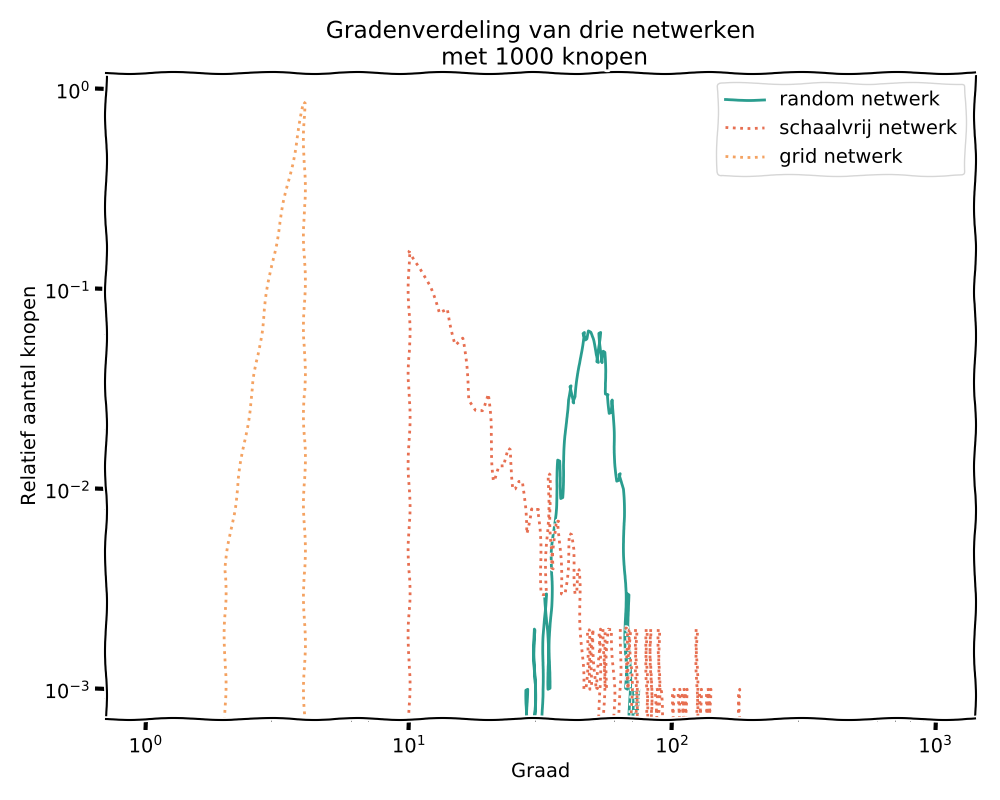
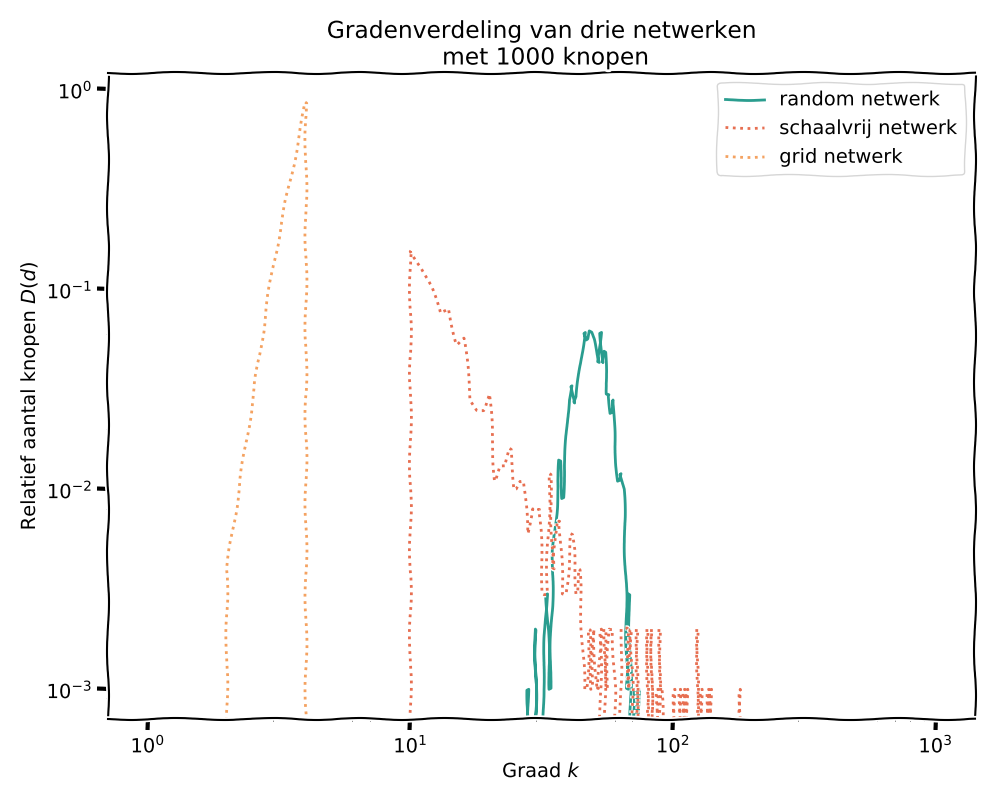
:pencil2: oefening graden

diff --git a/scripts/ziekteverspreiding.py b/scripts/ziekteverspreiding.py
@@ -54,6 +54,13 @@ def deax(ax):
     ax.set_xticks([])
     ax.set_yticks([])
 
+def printdegreetable(n):
+    """Print de tabel voor gradenverdeling"""
+    print("| $k$ | $D(k)$ |")
+    print("|:--|:--|")
+    for i in range(n):
+        print("| ${}$ | ... |".format(i+1))
+
 if __name__ == '__main__':
     import matplotlib.pyplot as plt
     plt.xkcd()
@@ -97,11 +104,23 @@ if __name__ == '__main__':
     ax.plot(bereken_gradenverdeling(netwerk_grid), color=oranje, ls=":",
                                             label="grid netwerk")
 
-    ax.set_xlabel("Graad")
-    ax.set_ylabel("Relatief aantal knopen")
+    ax.set_xlabel(r"Graad $k$")
+    ax.set_ylabel(r"Relatief aantal knopen $D(d)$")
     ax.set_title("Gradenverdeling van drie netwerken\n met 1000 knopen")
     ax.legend(loc=0)
     ax.loglog()
     fig.tight_layout()
 
     fig.savefig('figuren/gradenverdelingen.png')
+
+    # Plot voor gradenverdeling
+    # -------------------------
+
+    fig, ax = plt.subplots(figsize=(10, 8))
+
+    ax.plot(bereken_gradenverdeling(netwerk_voorbeeld), color='w')
+    ax.grid(color='g', linestyle=':', linewidth=0.25)
+    ax.set_xlabel(r"Graad $k$")
+    ax.set_ylabel(r"Relatief aantal knopen $D(d)$")
+
+    fig.savefig('figuren/gradenverdelingenleeg.png')

diff --git a/notas/ziekteverspeiding.md b/notas/ziekteverspeiding.md
@@ -133,7 +133,7 @@ Het sociaal netwerk dat we beschouwen wordt weergegeven in onderstaande figuur. 
 | **14** | ... | ... | ... | ... | ... | ... | ... | ... | ... | ... | ... | ... | ... | ... | ... |
 | **15** | ... | ... | ... | ... | ... | ... | ... | ... | ... | ... | ... | ... | ... | ... | ... |
 
-- [ ] maak netwerk + plot
+- [x] maak netwerk + plot
 - [x] verbindingmatrix
 
 ### Gradenverdeling
@@ -142,13 +142,33 @@ Het sociaal netwerk dat we beschouwen wordt weergegeven in onderstaande figuur. 
 
 Een graaf is een complexe wiskundige structuur. Een gegeven knoop in een graaf wordt gekarakteriseerd door zijn bogen en dus ook graad. Echter, belangrijke eigenschappen van de graaf zijn *emergent*, dit wil zeggen dat ze enkel te verklaren zijn door de graaf in zijn geheel en niet enkel de individuele onderdelen.
 
-Als we iets willen leren over een netwerk, welke informatie kunnen we bekijken? Het zou zeer interessant zijn om te weten hoe verbonden het netwerk is. Hoe kunnen we bepalen tot welke mate de knopen met elkaar verbonden zijn? We zouden naar de gemiddelde knoopgraad kunnen kijken, maar dit zou ons niet veel zeggen. In plaats daarvan kunnen we tellen voor elk nummer $x$ het aantal $y$ van knopen met graad $x$. Deze plot wordt de *gradenverdeling* genoemd en kan ons veel vertellen over de structuur van een netwerk. Wiskundig drukken we de gradenverdeling uit als
+Als we iets willen leren over een netwerk, welke informatie kunnen we bekijken? Het zou zeer interessant zijn om te weten hoe verbonden het netwerk is. Hoe kunnen we bepalen tot welke mate de knopen met elkaar verbonden zijn? We zouden naar de gemiddelde knoopgraad kunnen kijken, maar dit zou ons niet veel zeggen. In plaats daarvan kunnen we tellen voor elk nummer $x$ het aantal $y$ van knopen met graad $x$. Deze plot wordt de *gradenverdeling*  (Engels: *degree distribution*) genoemd en kan ons veel vertellen over de structuur van een netwerk. Wiskundig drukken we de gradenverdeling uit als
 
 $$
 D(k)=\text{fractie van de knopen met $k$ bogen}\,.
 $$
 
-> **Oefening**: Bereken en plot de gradenverdeling van het sociaal netwerk.
+> **Oefening 2**: Bereken en plot de gradenverdeling van het sociaal netwerk. Vul eerst onderstaande tabel in en teken dan de plot.
+
+| $k$ | $D(k)$ |
+|:--|:--|
+| $1$ | ... |
+| $2$ | ... |
+| $3$ | ... |
+| $4$ | ... |
+| $5$ | ... |
+| $6$ | ... |
+| $7$ | ... |
+| $8$ | ... |
+| $9$ | ... |
+| $10$ | ... |
+| $11$ | ... |
+| $12$ | ... |
+| $13$ | ... |
+| $14$ | ... |
+| $15$ | ... |
+
+![](../figuren/gradenverdelingenleeg.png)
 
 ### Drie types van netwerken
 
